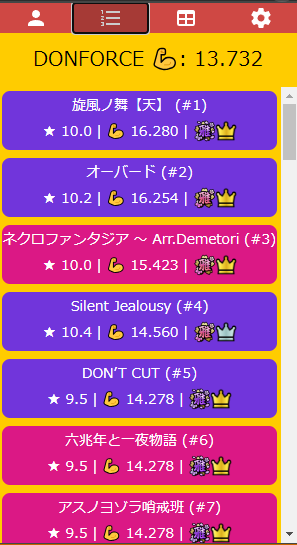
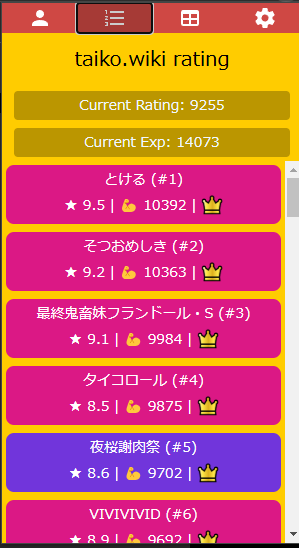
Update README.md

diff --git a/README.md b/README.md
@@ -1,20 +1,20 @@
 # Donder Hiroba Plus
-[한국어](/README_ko.md)
+[한국어 설명서](/README_ko.md)
 
 A Chrome extension that adds useful features to the site [Donder Hiroba](https://donderhiroba.jp/index.php), which allows you to check your information in the game "Taiko no Tatsujin".
 
-Song data are provided by [Korean Taiko Wiki](https://taiko.wiki), Thanks!
+Song data are provided by [taiko.wiki](https://taiko.wiki), Thanks!
 
 ## Installation
 
 [>> Download from the Chrome Web Store <<](https://chromewebstore.google.com/detail/donder-hiroba-plus/dmendcaacmlddhgalacgccejbamnncci)
 
-- Supported browsers: [Chrome](https://www.google.com/chrome/), [Naver Whale](https://whale.naver.com/ko/), [Kiwi Browser (mobile)](https://play.google.com/store/apps/details?id=com.kiwibrowser.browser&hl=en&gl=US&pli=1)
+- Supported browsers: [Chrome](https://www.google.com/chrome/), [Naver Whale](https://whale.naver.com/ko/), [Kiwi Browser (mobile)](https://play.google.com/store/apps/details?id=com.kiwibrowser.browser&hl=en&gl=US&pli=1), [Orion Browser by Kagi (iOS, Popup Only)](https://apps.apple.com/us/app/orion-browser-by-kagi/id1484498200)
 
 ## Features
 | ![Profile](.screenshots/profile.png) | ![Rating](.screenshots/rating.png) |
 |:------------------------:|:------------:|
-| [Popup Window](#popup-window) | [Rating System](#rating-system) |
+| [Popup Window](#popup-window) | [taiko.wiki Rating System](#rating-system) |
 
 ![Playlist](.screenshots/playlist.png) | ![Search](.screenshots/search.png)
 |:--------------------------------:|:-------------------------------------:|
@@ -25,29 +25,10 @@ Song data are provided by [Korean Taiko Wiki](https://taiko.wiki), Thanks!
 | [Translation](#translation) | [Integration with Taikowiki Difficulty Chart](#integration-with-taikowiki-difficulty-chart) |
 
 ## Usage
-### Popup Window
-After installation, click the extension icon to open the popup window.
-
-Once the popup window is open, log in to Donder Hiroba so that the extension can access your user information.
-
-- Click the Profile tab to view your user information and buttons to navigate to frequently used pages.
-- Click the Settings tab, then click "Update Song Scores" to parse the score page and store the data in local storage.
-
-### Rating System
-Once you parsed the scores, the extension calculates ratings based on the parsed scores.
-
-- Click the List tab to see your Donforce rating and the top 50 songs that contributed to your Donforce calculation.
-- Click the Table tab to see the Donforce values you can earn by playing specific difficulty songs.
-- Donforce formula: 6.0 * 1.3^(level - 6.0) * (badge) * (crown)
-- Badge: Incomplete 0.0 / 0.5 / 0.6 / 0.7 / 0.8 / 0.9 / 0.95 / 1.0
-- Crown: Incomplete 0.0 / Clear 0.85 / Full Combo 1.0 / Donder Full Combo 1.1
-- For each difficulty played, Donforce is calculated, and your Donforce rating is the average of the top 50 Donforce values.
-- Ratings are calculated per difficulty. You can select the difficulty for which you want to see the rating in the settings.
-- The rating calculation formula and levels may change in the future.
-- Ratings do not accurately reflect your skill. Please treat them as just for fun!
+- Click the extension icon to open the Popup Window
+- Visit [donderhiroba.jp](https://donderhiroba.jp) to use the extention features
 
 ### Detailed Song Search
-
 When visiting the [Score Page](https://donderhiroba.jp/score_list.php), you'll see an additional "Advanced Search Options" button.
 
 - Text - Filter by matching song titles and artists
@@ -59,10 +40,20 @@ When visiting the [Score Page](https://donderhiroba.jp/score_list.php), you'll s
 
 Click the icon in the top right corner of a song to see detailed information and direct links to YouTube, WikiWiki, and Korean Taikowiki.
 
-### Integration with Korean Taikowiki Difficulty Chart
+### Rating System
+> [!NOTE]
+> Donforce has been deprecated and replaced with taiko.wiki Rating System
 
-After 'Song Score Update' in the setting, visit the [Taikowiki Difficulty Chart](https://taiko.wiki/diffchart/clear/10) to see song backgrounds colored based on crown status, and badges displayed in the top right corner.
+> Go to Popup Window > Settings > taiko.wiki Rating Upload
+and upload your data to see your rating.
 
+See [taiko.wiki page](https://taiko.wiki/rating) for more details.
+
+### Integration with taiko.wiki Difficulty Chart
+> Go to Popup Window > Settings > taiko.wiki Rating Upload
+and upload your data to see your colored diffchart.
+
+- Track your Clear/Fullcombo/Donderfull Song in [taiko.wiki diffchart](https://taiko.wiki/diffchart/clear/10)
 - You can also use [Playlist](#playlist) feature to create a playlist from the Taikowiki Difficulty Chart. (Right-click on the song to add it to the playlist)
 
 ### Translation

diff --git a/README_ko.md b/README_ko.md
@@ -2,12 +2,12 @@
 
 게임 "태고의 달인"에서 자신의 정보를 확인할 수 있는 사이트 [돈더 히로바](https://donderhiroba.jp/index.php) 에 유용한 기능들을 추가 시켜주는 크롬 확장 프로그램
 
-곡 정보는 [Team LAGOS](https://twitter.com/KOREA_TAIKO)에서 제공해 주셨습니다. 감사합니다!
+곡 정보는 [taiko.wiki](https://taiko.wiki)에서 제공해 주셨습니다. 감사합니다!
 
 ## 설치
 [>> 크롬 웹 스토어에서 내려 받기 <<](https://chromewebstore.google.com/detail/donder-hiroba-plus/dmendcaacmlddhgalacgccejbamnncci)
 
-- 지원 브라우저 : [크롬](https://www.google.com/chrome/), [네이버 웨일](https://whale.naver.com/ko/), [Kiwi Browser (모바일)](https://play.google.com/store/apps/details?id=com.kiwibrowser.browser&hl=en&gl=US&pli=1)
+- 지원 브라우저 : [크롬](https://www.google.com/chrome/), [네이버 웨일](https://whale.naver.com/ko/), [Kiwi Browser (안드로이드 모바일)](https://play.google.com/store/apps/details?id=com.kiwibrowser.browser&hl=en&gl=US&pli=1), [Orion Browser by Kagi (iOS, 팝업창만 지원)](https://apps.apple.com/us/app/orion-browser-by-kagi/id1484498200)
 
 ## 기능
 | ![Profile](.screenshots/profile.png) | ![Rating](.screenshots/rating.png) |
@@ -33,20 +33,6 @@
 - 프로필 탭을 클릭하면 유저 정보를 확인할 수 있고 자주쓰는 페이지로 이동할 수 있는 버튼이 있습니다.
 - 톱니바퀴 탭을 클릭하여 설정 탭으로 간 후 "곡 스코어 업데이트" 를 누르면 스코어 페이지를 파싱하여 로컬 저장소에 저장합니다.
 
-### 레이팅 시스템
-[팝업창](#팝업창)에서 파싱한 스코어를 기반으로 레이팅을 계산합니다.
-
-- 리스트 탭을 클릭하면 레이팅인 Donforce와 Donforce 계산에 들어간 상위 50개의 곡을 확인할 수 있습니다.
-- 테이블 탭을 클릭하면 특정 난이도 곡을 플레이 했을 때 얻을 수 있는 Donforce값을 확인할 수 있습니다.
-
-- Donforce 공식 : 6.0 * 1.3^(level - 6.0) * (뱃지) * (왕관)
-- 뱃지: 미클리어 0.0 / 0.5 / 0.6 / 0.7 / 0.8 / 0.9 / 0.95 / 1.0
-- 왕관: 미클리어 0.0 / 클리어 0.85 / 풀 콤보 1.0 / 돈더풀 콤보 1.1
-- 플레이한 난이도 마다 Donforce를 계산 후 상위 50개의 Donforce의 평균값이 플레이어의 Donforce가 됩니다.
-- 레이팅은 난이도별로 계산됩니다. 설정에서 레이팅을 보고 싶은 난이도를 선택할 수 있습니다.
-- 레이팅 산출 공식과 레벨은 차후 변경될 수 있습니다.
-- 레이팅은 정확한 실력을 반영하지 않습니다. 재미로만 봐주세요!
-
 ### 상세 곡 검색
 [스코어 페이지](https://donderhiroba.jp/score_list.php) 방문 시 "Advanced Search Options" 라는 버튼이 추가된 것을 확인할 수 있습니다.
 - Text - 곡 제목, 아티스트와 매칭된 것을 필터링
@@ -58,8 +44,21 @@
 
 곡에서 오른쪽 상단에 있는 아이콘을 클릭하면 상세 정보 및 Youtube, WikiWiki, 태고 위키 바로가기 링크를 나옵니다.
 
+### 레이팅 시스템
+> [!NOTE]
+> Donfroce는 taiko.wiki 레이팅 시스템으로 대체되었습니다.
+
+> 팝업 > 설정 > taiko.wiki Rating Upload 으로 가서
+데이터를 업로드 하고 레이팅을 볼 수 있습니다.
+
+[taiko.wiki page](https://taiko.wiki/rating) 를 방문하여 더 자세한 내용을 확인하세요.
+
+
 ### 태고위키 서열표 연동
-- [팝업창](#팝업창)에서 '곡 스코어 업데이트' 를 한 후 [태고 위키의 서열표](https://taiko.wiki/diffchart/clear/10) 에 들어가면 왕관 기준으로 곡 마다 배경색이 바뀌고, 오른쪽 상단에 뱃지가 표시됩니다.
+> 팝업 > 설정 > taiko.wiki Rating Upload 으로 가서
+데이터를 업로드 하고 레이팅을 볼 수 있습니다.
+
+- [taiko.wiki diffchart](https://taiko.wiki/diffchart/clear/10) 에 방문하여 클리어 현황을 한눈에 볼 수 있습니다.
 - 서열표에서 오른쪽 마우스를 클릭하여 [플레이리스트](#플레이리스트)에 추가할 수 있습니다.
 
 ### 번역
